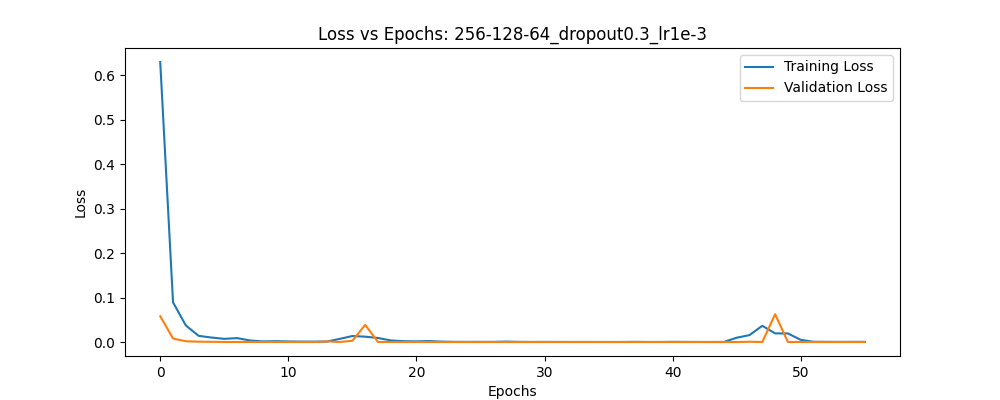
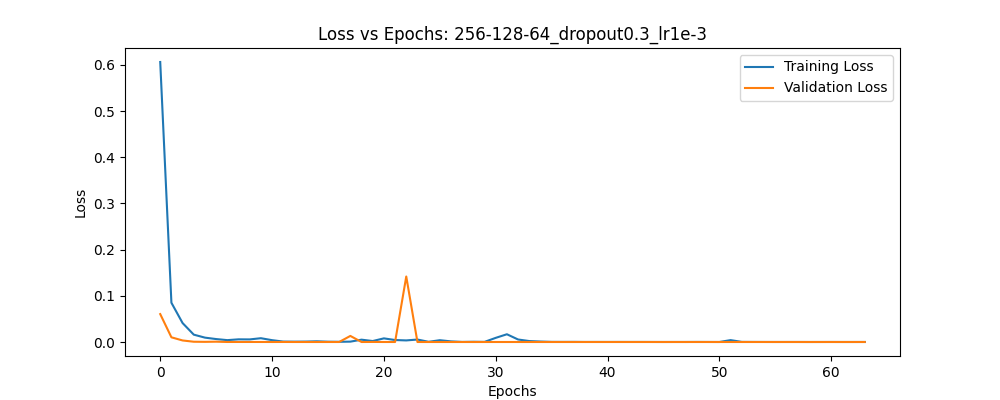
optimizer choosing

diff --git a/data_capture.py b/data_capture.py
@@ -5,14 +5,22 @@ import os
 import time
 import numpy as np
 
-# preprocessing function
+# preprocessing function that qualitively improved pose estimation and tracking of limbs
 def preProcess_rgb(frame):
+    #slight research on optimal frame size for mediapipe 
     frame = cv2.resize(frame, (640, 480))
+    
+    # histogram equalization on the Y channel of YUV color space to improve contrast in varying lighting conditions
     yuv = cv2.cvtColor(frame, cv2.COLOR_BGR2YUV)
     yuv[:,:,0] = cv2.equalizeHist(yuv[:, :, 0])
     frame = cv2.cvtColor(yuv, cv2.COLOR_YUV2BGR)
+    
+    # increased contrast for better landmark detection
     frame = cv2.convertScaleAbs(frame, alpha=1.5, beta=0)
+    
+    # Selfie mode (mirror image) for more intuitive interaction
     frame = cv2.flip(frame, 1)
+    
     rgb = cv2.cvtColor(frame, cv2.COLOR_BGR2RGB)
     return frame, rgb
 

diff --git a/README.md b/README.md
@@ -47,11 +47,36 @@ python backend_app.py
 
 ## Evaluation
 
+### Choosing Optimizer
+
+Looking at the nature of this problem, the best optimizers for this between SGD and Adam. 
+I provide a sample of the training as reference.
+
+The model parameters used were 3-layers, 256 → 128 → 64, dropout = 0.3. The learning rate was varied and the best result was chosen. 
+
+- **SGD** - Momentum was set to 0.9 to allow it to converge faster
+    Epoch 12/100
+    73/73 ━━━━━━━━━━━━━━━━━━━━ 0s 4ms/step - accuracy: 0.9738 - loss: 0.1110 - val_accuracy: 0.9961 - val_loss: 0.0202
+    Epoch 13/100
+    ...
+    Epoch 100/100
+    73/73 ━━━━━━━━━━━━━━━━━━━━ 0s 4ms/step - accuracy: 0.9987 - loss: 0.0062 - val_accuracy: 1.0000 - val_loss: 6.7399e-05
+
+- **Adam** - 
+    Epoch 12/100
+    73/73 ━━━━━━━━━━━━━━━━━━━━ 0s 4ms/step - accuracy: 1.0000 - loss: 9.1441e-04 - val_accuracy: 1.0000 - val_loss: 7.2806e-05
+    Epoch 13/100
+    ...
+    Epoch 64/100
+    73/73 ━━━━━━━━━━━━━━━━━━━━ 0s 4ms/step - accuracy: 1.0000 - loss: 5.0897e-05 - val_accuracy: 1.0000 - val_loss: 4.1424e-09
+
+In use in yogamer_app.py, SGD was better for admitting low confidence in noise, meaning that resting state was accurately identified. However, some of the poses were inaccurately identified (Butterfly became seated forward fold). The larger issue is that when I held a pose, it seemed to constantly shifting between it and another state, breaking the time. Changing the threshold made it where the resting state started becoming classified as a pose. While Adam had some issue in classifying resting state as a pose, it was near completely accurate in classifying poses. As such Adam was choosen.  
+
 ### Hyperparameter Tuning
 
 There are many hyperparameters that could be adjusted, so I only tuned the ones I felt were most significant.
 
-- **Epochs, batch size, & patience** — batch size of 32 was used as it is standard and outperformed other options in testing. Epochs and patience work in tandem — patience ensures the model stops early before overfitting, so most runs do not reach the full 100 epochs.
+- **Epochs, batch size, & patience** — batch size of 32 was used. It is standard and outperformed other options in testing through class. Epochs and patience work in tandem — patience ensures the model stops early before overfitting, so most training runs do not reach the full 100 epochs.
 - **Train/validation/test split** — I utilized the standard from class: 70/30 train/test split with 10% of training held out for validation, producing a 63/7/30 train/validation/test split.
 - **Architecture depth** — I utilize the standard 3-layer depth since the number of inputs does not increase (132).
 